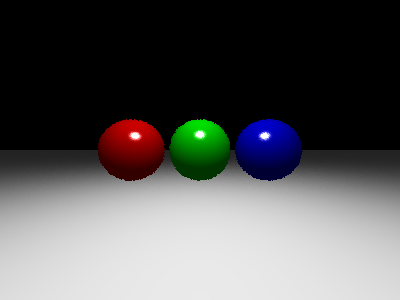
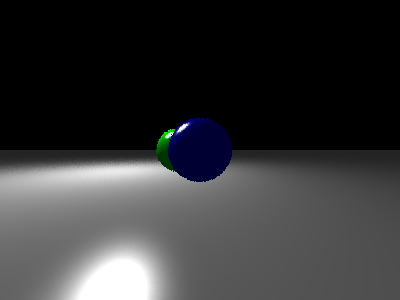
Include look_at functionality

diff --git a/camera.py b/camera.py
@@ -14,6 +14,8 @@ class Camera:
     def __init__(
             self, 
             world:World,
+            look_at:np.ndarray = np.array([0.0, 0.0, 0.0]),
+            up:np.ndarray = np.array([0.0, 1.0, 0.0]),
             aspect_ratio:float = 4.0 / 3.0,
             width:int = 400,
             center:np.ndarray = np.array([0.0, 0.0, 1.0]),
@@ -27,6 +29,8 @@ class Camera:
         self.aspect_ratio = aspect_ratio
         self.center = center
         self.focal_length = focal_lenght
+        self.look_at = look_at
+        self.up = up
 
         # Sampling rate
         self.samples_per_pixel = samples_per_pixel
@@ -40,16 +44,23 @@ class Camera:
         # Create pixel matrix
         self.pixels = np.zeros((self.height, self.width, 3), dtype=np.uint8)
 
+        # Calculate the orthonormal basis vectors for the camera orientation
+        self.z_axis = utils.normalize(self.center - self.look_at)
+        self.x_axis = utils.normalize(np.cross(self.up, self.z_axis))
+        self.y_axis = np.cross(self.x_axis, self.z_axis)
+
         # Calculate vector across the horizontal and down the vertical viewport edges
-        self.viewport_u:np.ndarray = np.array([self.viewport_width, 0.0, 0.0])
-        self.viewport_v:np.ndarray = np.array([0.0, -self.viewport_height, 0.0])
+        # # self.viewport_u:np.ndarray = np.array([self.viewport_width, 0.0, 0.0])
+        # self.viewport_v:np.ndarray = np.array([0.0, -self.viewport_height, 0.0])
+        self.viewport_u:np.ndarray = self.viewport_width * self.x_axis
+        self.viewport_v:np.ndarray = self.viewport_height * self.y_axis
 
         # Calculate the horizontal and vertical delta vectors from pixel to pixel
         self.pixel_delta_u:np.ndarray = self.viewport_u / self.width
         self.pixel_delta_v:np.ndarray = self.viewport_v / self.height
 
         # Calculate location of upper left pixel
-        self.viewport_upper_left:np.ndarray = self.center - np.array([0.0, 0.0, focal_lenght]) - self.viewport_u/2 - self.viewport_v/2
+        self.viewport_upper_left:np.ndarray = self.center - (self.focal_length * self.z_axis) - self.viewport_u/2 - self.viewport_v/2
 
         self.pixel_00_location:np.ndarray = self.viewport_upper_left + 0.5 * (self.pixel_delta_u + self.pixel_delta_v)
 

diff --git a/main.py b/main.py
@@ -18,7 +18,7 @@ def main():
                 material=Material(colors.RED, 0.1, 0.5, 50.0, debug=False)
             ),
             Hittable(
-                surface=Sphere(np.array([0.0, 0.0, -1.5]), 0.5),
+                surface=Sphere(np.array([0.0, 0.0, -1.0]), 0.5),
                 material=Material(colors.GREEN, 0.1, 0.5, 50.0, debug=False)
             ),
             Hittable(
@@ -41,7 +41,11 @@ def main():
     )
 
     # Cam
-    camera = Camera(world=world)
+    camera = Camera(
+        world=world,
+        center=np.array([3.5, 0.0, -1.5]),
+        look_at=np.array([0.0, 0.0, -1.5])
+    )
 
     camera.render()
 
